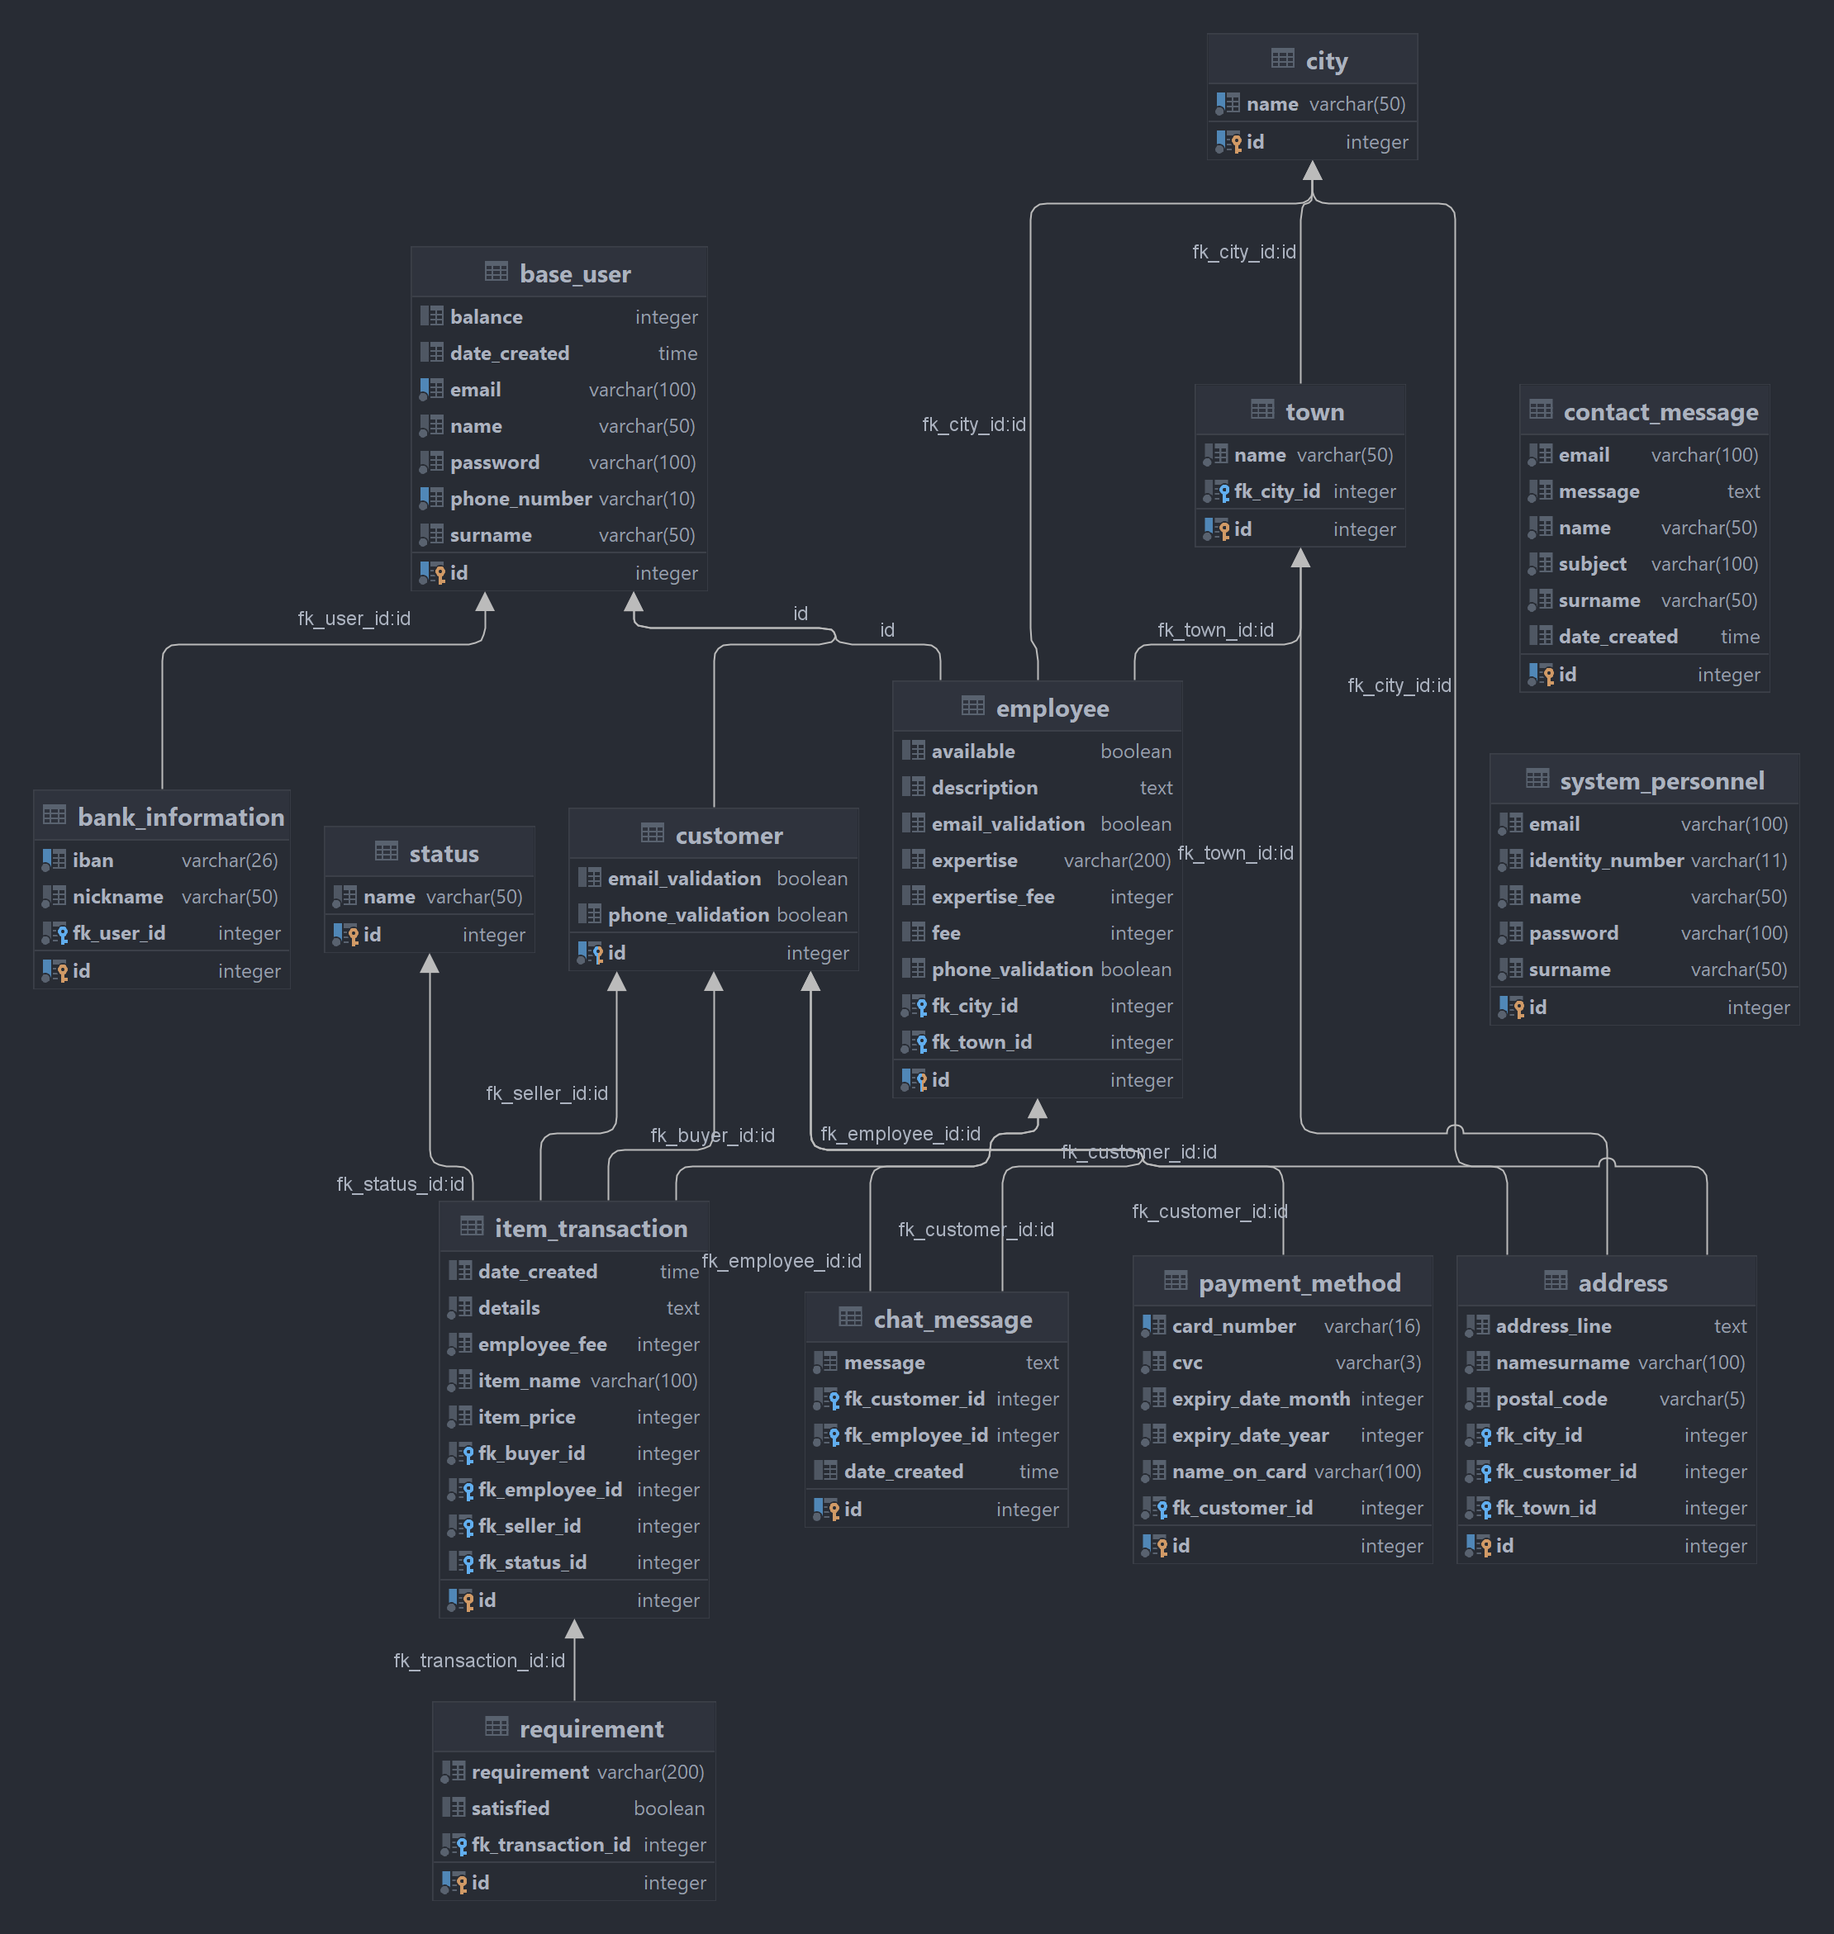
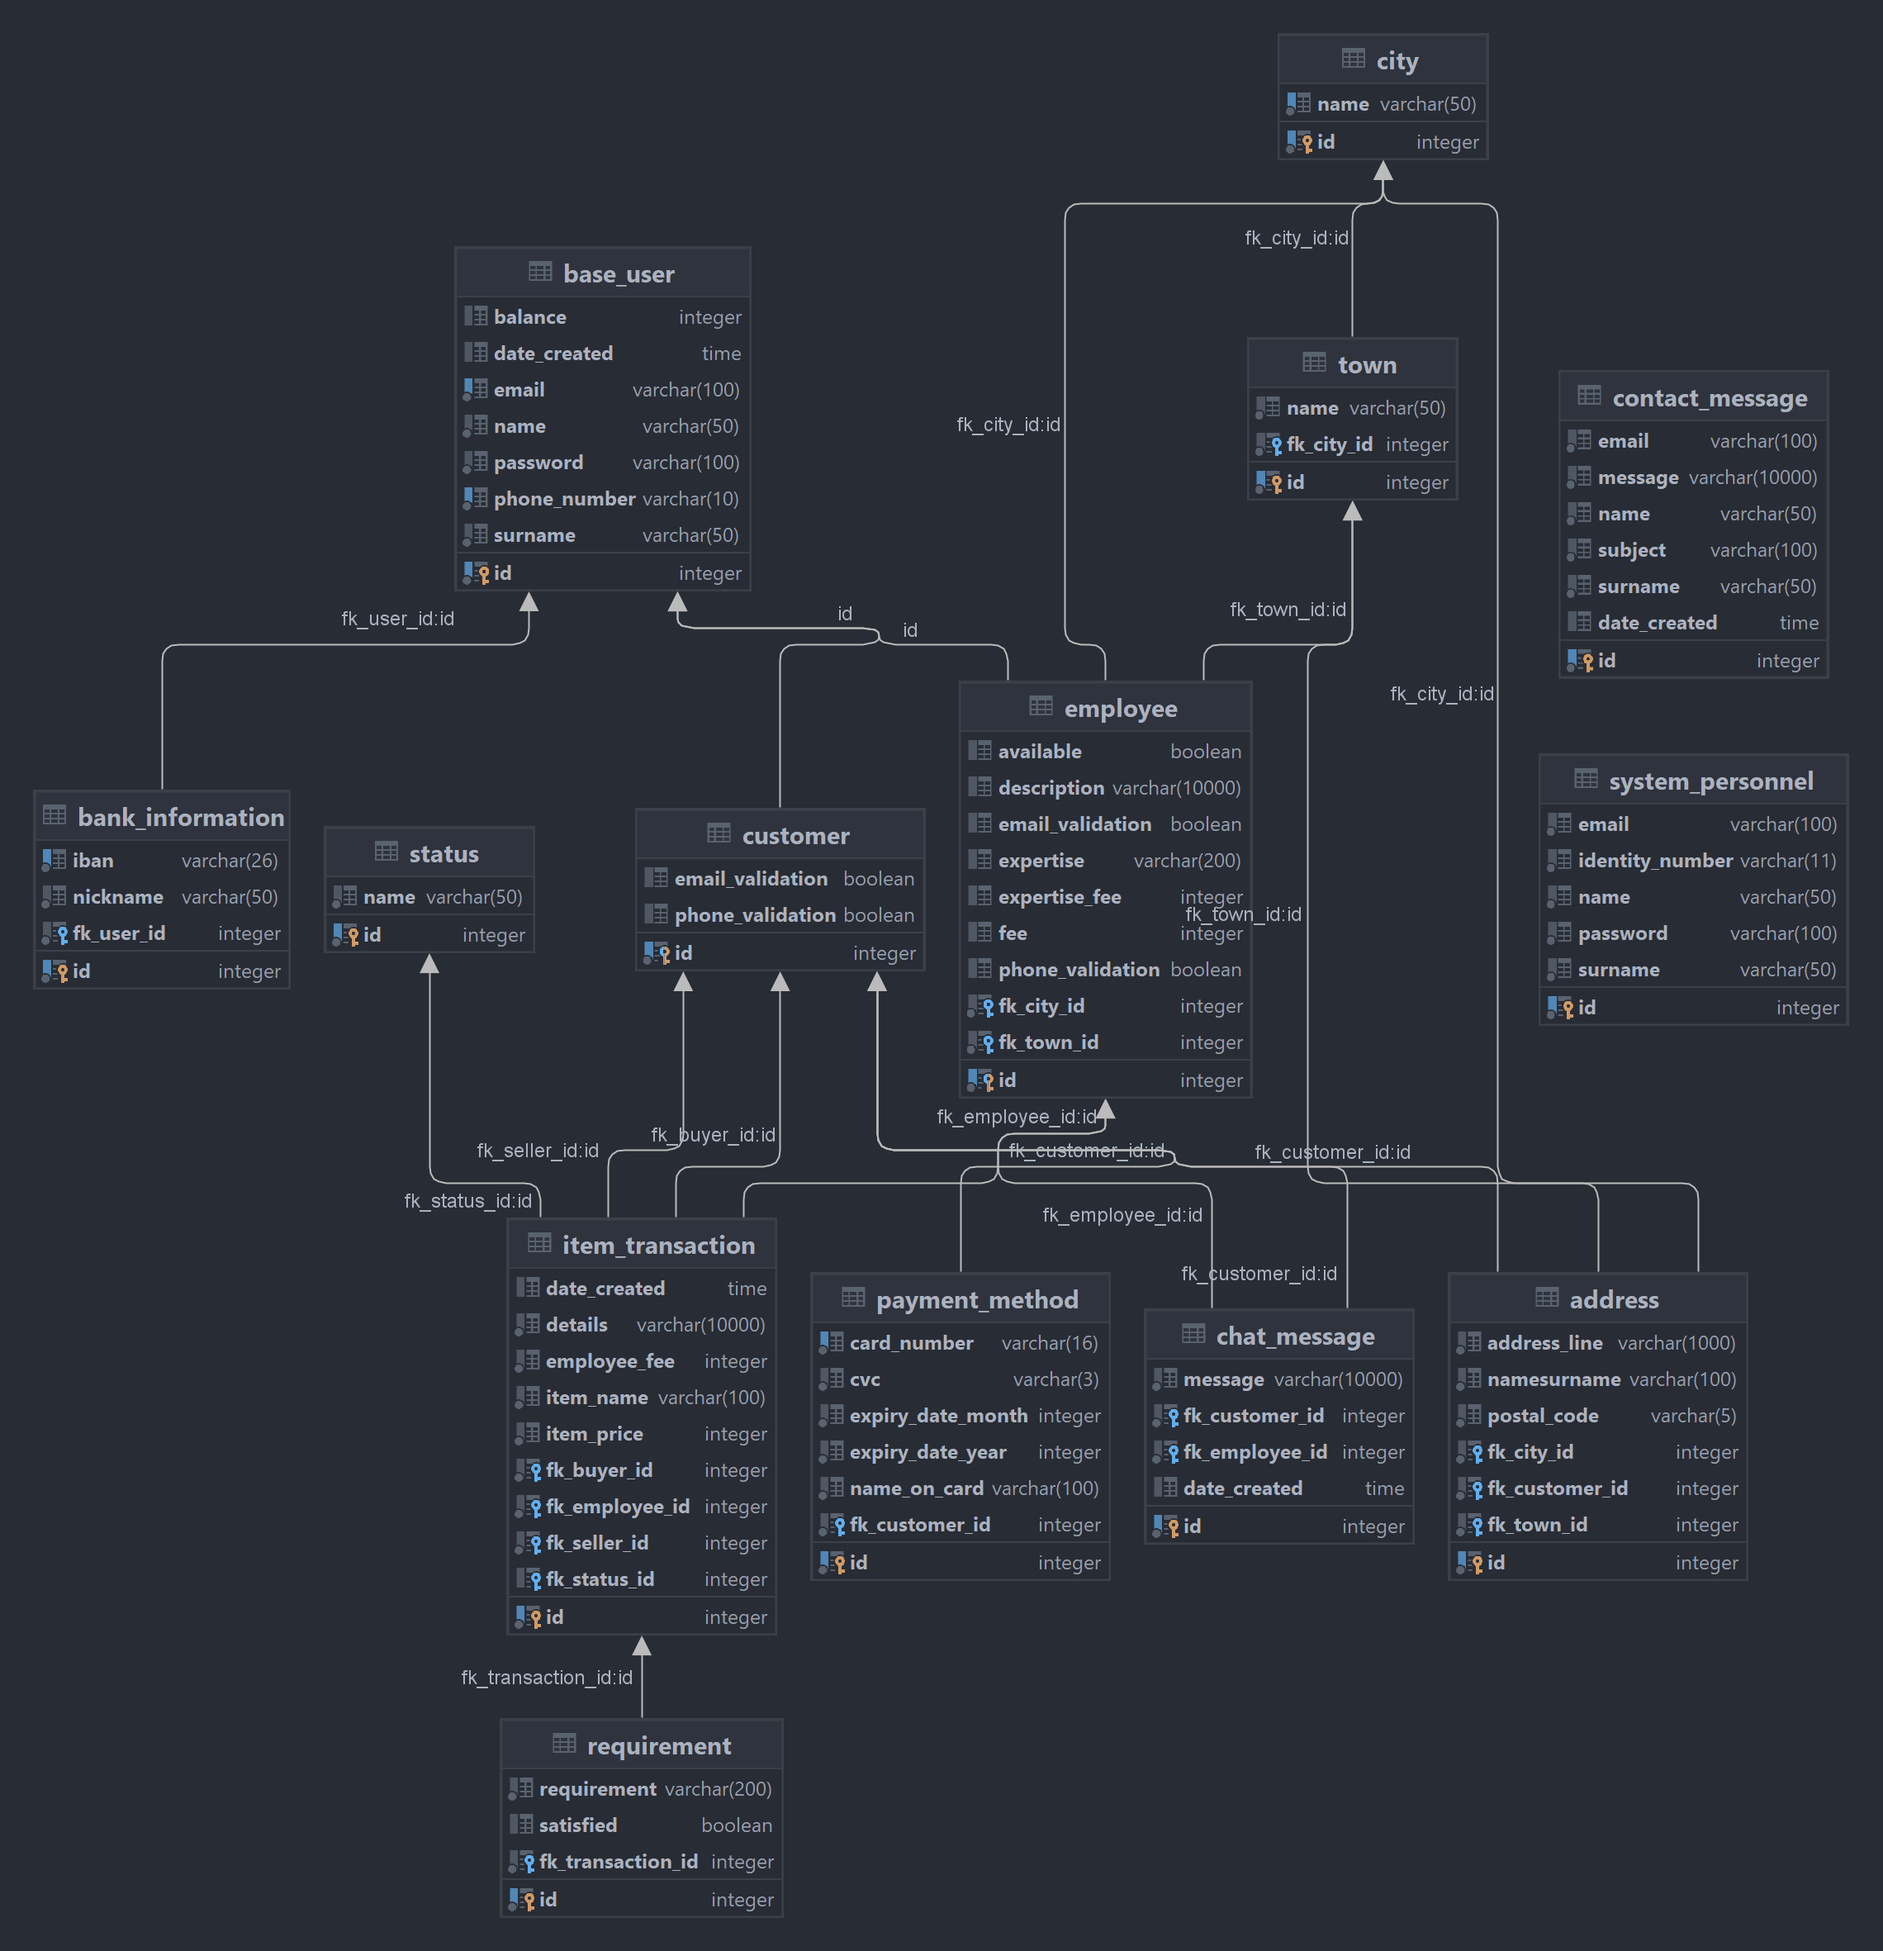
Implemented User Login Redux

diff --git a/frontend/src/layouts/Navi.jsx b/frontend/src/layouts/Navi.jsx
@@ -1,6 +1,8 @@
-import {Container, Icon, Menu} from "semantic-ui-react";
+import {Container, Icon, Image, Menu} from "semantic-ui-react";
 import {Link} from "react-router-dom";
 import SignedOut from "./SignedOut";
+import {userProps} from "../store/initialValues/userProps";
+import SignedIn from "./SignedIn";
 
 export default function Navi() {
     return (
@@ -9,22 +11,15 @@ export default function Navi() {
                 <Container>
                     <Menu.Item name="Home" as={Link} to={"/"}>
                         <Icon name="home"/>
-                        {/*<Image src={"https://uxwing.com/wp-content/themes/uxwing/download/29-animals-and-birds/crow.png"}/>*/}
+                        {/*<Image size={"mini"} src={"https://uxwing.com/wp-content/themes/uxwing/download/29-animals-and-birds/crow.png"}/>*/}
                         E-Crow
                     </Menu.Item>
 
-                    <Menu.Menu position="right">
-                        {/*{authItem[0].loggedIn && authItem[0].user.userType===2 &&  <Button primary as={Link} to={"/jobAdCreate"}>*/}
-                        {/*    İlan Ekle*/}
-                        {/*</Button>}*/}
-                        {/*{authItem[0].loggedIn && authItem[0].user.userType===1 &&  <Button color="red" as={Link} to={`/jobAdFavorites`}>*/}
-                        {/*    <Icon name='heart' />*/}
-                        {/*    Favori İlanlar*/}
-                        {/*</Button>}*/}
+                    <Menu.Item name={"Messages.jsx"} as={Link} to{"/Messages.jsx"}
 
-                        {/*{authItem[0].loggedIn?<SingedIn/>:<SingedOut/>}*/}
+                    <Menu.Menu position="right">
                         <Menu.Item>
-                            <SignedOut/>
+                            {userProps.loggedIn ? <SignedIn/> : <SignedOut/>}
                         </Menu.Item>
                     </Menu.Menu>
                 </Container>

diff --git a/frontend/src/pages/EmployeeSignup.jsx b/frontend/src/pages/EmployeeSignup.jsx
@@ -25,7 +25,7 @@ export default function EmployeeSignup() {
     useEffect(() => {
         cityService.getAll().then(result => setCities(result.data.data))
 
-    },)
+    },[])
 
     useEffect(()=>{
         if(cityId !== 0){
@@ -50,18 +50,18 @@ export default function EmployeeSignup() {
     const handleChangeCity = (value) => {
         setCityId(value)
         formik.values.fkCityId = value
-        console.log("City Id: " + value)
+        // console.log("City Id: " + value)
     }
     const handleChangeTown = (value) => {
         setTownId(value)
         formik.values.fkTownId = value
-        console.log("Town Id: " + value)
+        // console.log("Town Id: " + value)
     }
 
     const customerSignupSchema = Yup.object().shape({
         name: Yup.string().required("Required").max(50, "Maximum 50 characters"),
         surname: Yup.string().required("Required").max(50, "Maximum 50 characters"),
-        phoneNumber: Yup.string().required("Required").matches(/\d{10}/, "Invalid Phone Number"),
+        phoneNumber: Yup.string().required("Required").matches(/^[0-9]{10}$/, "Invalid Phone Number"),
         email: Yup.string().required("Required").max(100, "Maximum 100 Characters").email("Invalid E-Mail Format"),
         password: Yup.string().required("Required").min(6, "Minimum 6 Characters").max(100, "Maximum 100 Characters"),
         rePassword: Yup.string().oneOf([Yup.ref("password"), null], "Not matching").required("Required")

diff --git a/frontend/src/store/reducers/userReducer.js b/frontend/src/store/reducers/userReducer.js
@@ -1,0 +1,40 @@
+import {userProps} from "../initialValues/userProps";
+import {CUSTOMER_LOGIN, EMPLOYEE_LOGIN, SIGN_OUT} from "../actions/userActions";
+
+const initialState = {
+    userProps : userProps
+}
+
+export default function userReducer(state = initialState, {type, payload}){
+    switch (type) {
+        case CUSTOMER_LOGIN:
+            return {
+                ...state,
+                userProps:{
+                    user: payload,
+                    userType: 1,
+                    loggedIn: true
+                }
+            }
+        case EMPLOYEE_LOGIN:
+            return {
+                ...state,
+                userProps:{
+                    user: payload,
+                    userType: 2,
+                    loggedIn: true
+                }
+            }
+        case SIGN_OUT:
+            return {
+                ...state,
+                userProps: {
+                    user: null,
+                    userType: 0,
+                    loggedIn: false
+                }
+            }
+        default:
+            return state;
+    }
+}

diff --git a/frontend/src/App.js b/frontend/src/App.js
@@ -1,14 +1,21 @@
 import './App.css';
 import Dashboard from "./layouts/Dashboard";
+import {useLayoutEffect} from "react";
+import {customerLogin, employeeLogin} from "./store/actions/userActions";
 
 function App() {
-  // const dispatch = useDispatch();
-  //
-  // useLayoutEffect(() => {
-  //   if(localStorage.getItem("user")){
-  //     dispatch(userLogin(JSON.parse(localStorage.getItem("user"))))
-  //   }
-  // })
+
+  const dispatch = useDispatch();
+
+  useLayoutEffect(() => {
+    if(localStorage.getItem("customer")){
+      dispatch(customerLogin(JSON.parse(localStorage.getItem("customer"))))
+    }
+
+      if(localStorage.getItem("employee")){
+          dispatch(employeeLogin(JSON.parse(localStorage.getItem("employee"))))
+      }
+  })
 
   return (
       <div className="App">

diff --git a/frontend/src/store/actions/userActions.js b/frontend/src/store/actions/userActions.js
@@ -1,0 +1,23 @@
+export const CUSTOMER_LOGIN = "CUSTOMER_LOGIN"
+export const EMPLOYEE_LOGIN = "EMPLOYEE_LOGIN"
+export const SIGN_OUT = "SIGN_OUT"
+
+export function customerLogin(user) {
+    return {
+        type: CUSTOMER_LOGIN,
+        payload: user
+    }
+}
+
+export function employeeLogin(user) {
+    return {
+        type: EMPLOYEE_LOGIN,
+        payload: user
+    }
+}
+
+export function userSignOut() {
+    return {
+        type : SIGN_OUT
+    }
+}

diff --git a/frontend/src/store/rootReducer.js b/frontend/src/store/rootReducer.js
@@ -1,8 +1,8 @@
-import {combineReducers} from "redux";
-import authReducer from "./reducers/authReducer";
+ import {combineReducers} from "redux";
+import userReducer from "./reducers/userReducer";
 
 const rootReducer = combineReducers({
-    auth : authReducer
+    user : userReducer
 })
 
 export default rootReducer;

diff --git a/frontend/src/store/initialValues/userProps.js b/frontend/src/store/initialValues/userProps.js
@@ -1,0 +1,5 @@
+export const userProps = {
+    user: null,
+    userType: 0,
+    loggedIn: false
+}

diff --git a/backend/src/main/java/ecrow/backend/entities/concretes/ItemTransaction.java b/backend/src/main/java/ecrow/backend/entities/concretes/ItemTransaction.java
@@ -5,6 +5,7 @@ import lombok.*;
 import org.springframework.data.annotation.CreatedDate;
 
 import javax.persistence.*;
+import javax.validation.constraints.NotBlank;
 import javax.validation.constraints.NotNull;
 import javax.validation.constraints.PositiveOrZero;
 import java.time.LocalDateTime;
@@ -50,8 +51,9 @@ public class ItemTransaction {
     @Column(name = "employee_fee", nullable = false)
     private Integer employeeFee;
 
-    @Lob
-    @Column(name = "details", nullable = false)
+    @NotNull(message = "Required")
+    @NotBlank(message = "Field Cannot Be Empty")
+    @Column(name = "details", nullable = false, length = 10000)
     private String details;
 
     @ManyToOne(fetch = FetchType.LAZY)

diff --git a/backend/src/main/java/ecrow/backend/entities/concretes/ContactMessage.java b/backend/src/main/java/ecrow/backend/entities/concretes/ContactMessage.java
@@ -48,8 +48,7 @@ public class ContactMessage {
 
     @NotNull(message = "Required")
     @NotBlank(message = "Field Cannot Be Empty")
-    @Lob
-    @Column(name = "message", nullable = false)
+    @Column(name = "message", nullable = false, length = 10000)
     private String message;
 
     @CreatedDate

diff --git a/backend/src/main/java/ecrow/backend/entities/concretes/ChatMessage.java b/backend/src/main/java/ecrow/backend/entities/concretes/ChatMessage.java
@@ -32,8 +32,7 @@ public class ChatMessage {
 
     @NotNull(message = "Required")
     @NotBlank(message = "Field Cannot Be Empty")
-    @Lob
-    @Column(name = "message", nullable = false)
+    @Column(name = "message", nullable = false, length = 10000)
     private String message;
 
     @CreatedDate

diff --git a/backend/src/main/java/ecrow/backend/entities/concretes/Address.java b/backend/src/main/java/ecrow/backend/entities/concretes/Address.java
@@ -47,8 +47,7 @@ public class Address {
 
     @NotNull(message = "Required")
     @NotBlank(message = "Field Cannot Be Empty")
-    @Lob
-    @Column(name = "address_line", nullable = false)
+    @Column(name = "address_line", nullable = false, length = 1000)
     private String addressLine;
 
 }

diff --git a/backend/src/main/java/ecrow/backend/entities/concretes/Employee.java b/backend/src/main/java/ecrow/backend/entities/concretes/Employee.java
@@ -43,8 +43,7 @@ public class Employee extends BaseUser{
     @Column(name = "available")
     private Boolean available;
 
-    @Lob
-    @Column(name = "description")
+    @Column(name = "description", length = 10000)
     private String description;
 
     @Column(name = "email_validation")
